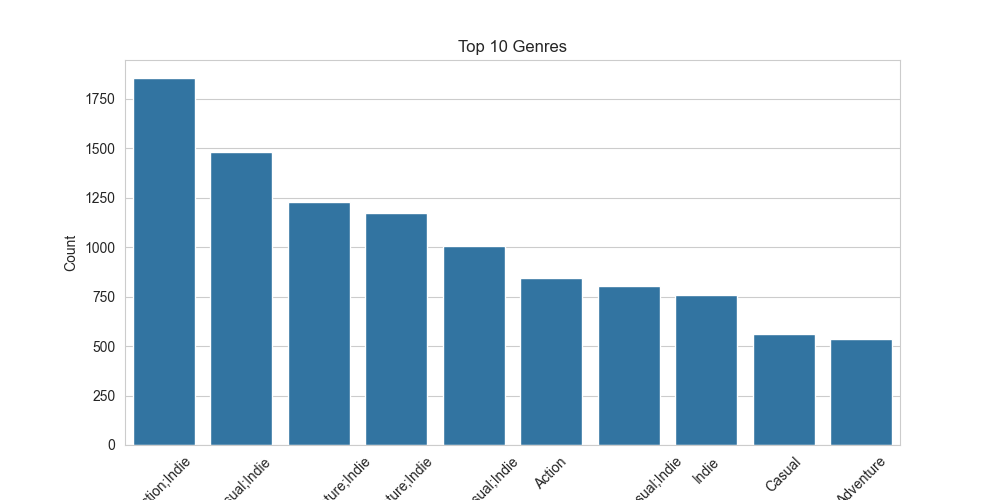
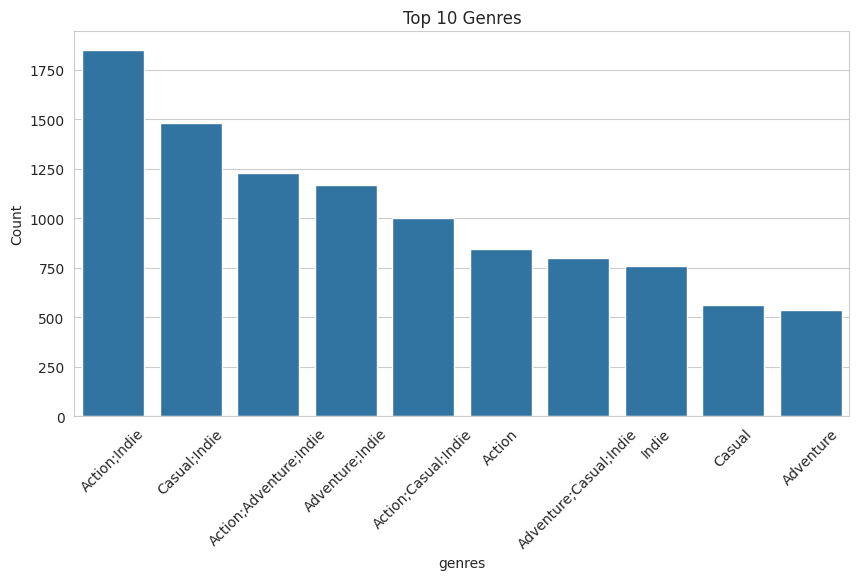
Remove classification module

diff --git a/scripts/feature_engineering.py b/scripts/feature_engineering.py
@@ -8,21 +8,7 @@ from sklearn.decomposition import PCA
 
 def run_feature_engineering(df):
 
-    # =========================================
-    # CREATE RATING RATIO
-    # =========================================
-
-    df['rating_ratio'] = (
-        df['positive_ratings']
-        /
-        (
-            df['positive_ratings']
-            +
-            df['negative_ratings']
-            +
-            1
-        )
-    )
+    # rating_ratio was created during EDA
 
     print(
         df[

diff --git a/scripts/recommendation.py b/scripts/recommendation.py
@@ -31,6 +31,9 @@ def recommend_games(
 
         for tag in user_tags:
 
+            # Missing steamspy_tags values are treated as False
+            # during tag filtering (excluded from recommendations)
+
             filtered_df = filtered_df[
                 filtered_df['steamspy_tags']
                 .str.contains(
